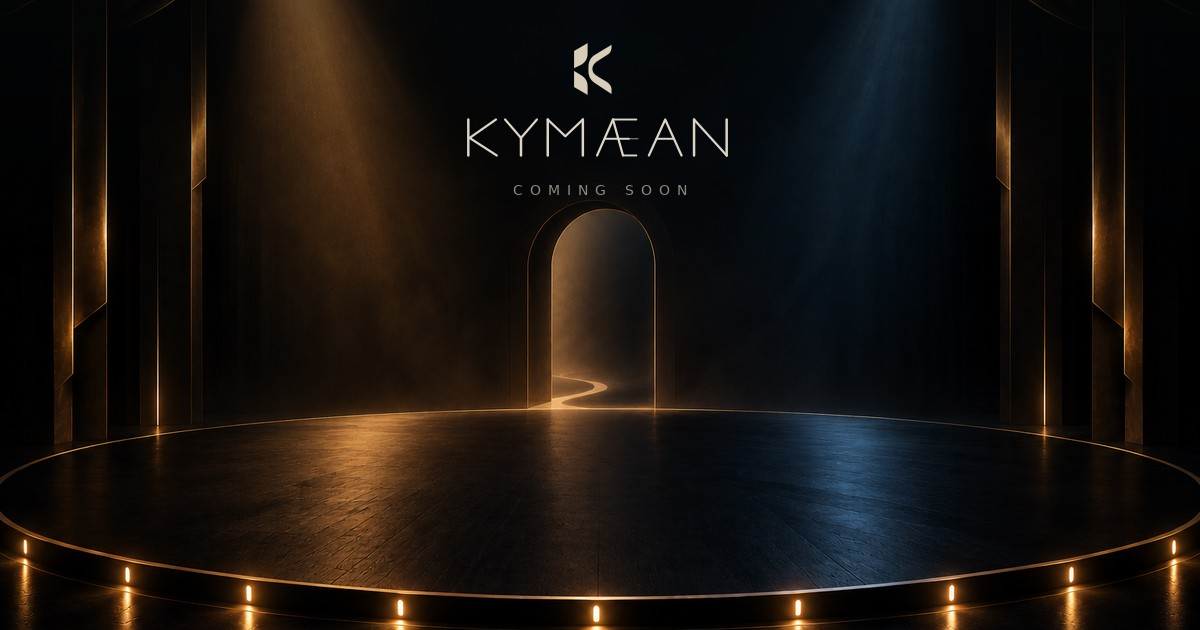
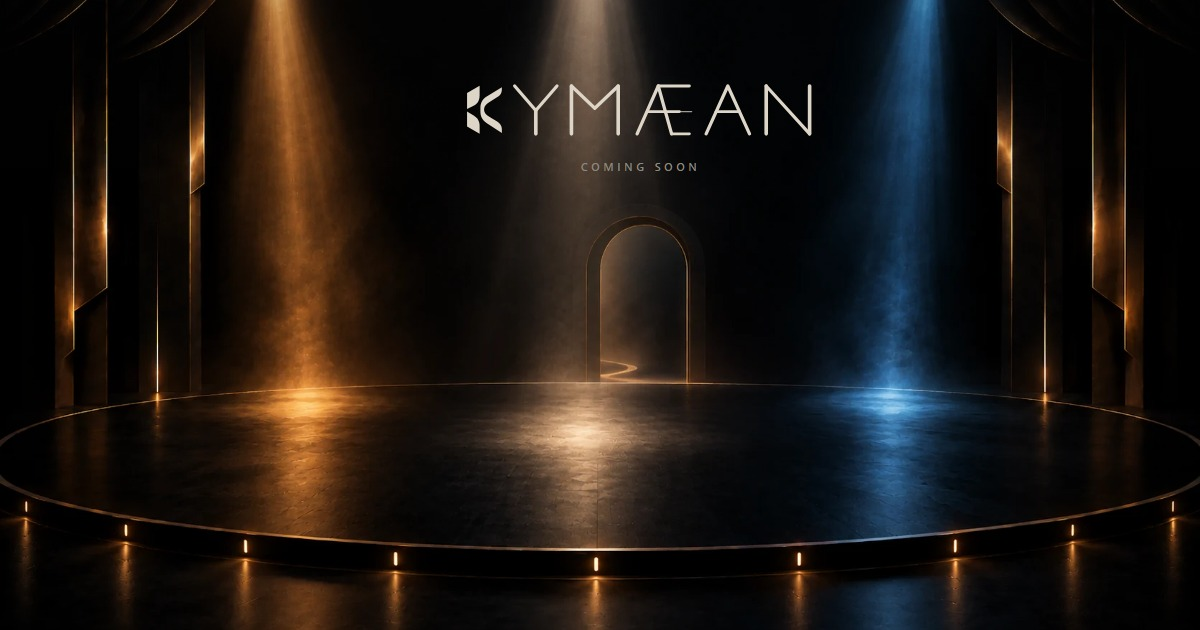
site: align V2.2 social card with approved composition

diff --git a/site/public/index.html b/site/public/index.html
@@ -13,7 +13,7 @@
   <meta property="og:title" content="Kymaean">
   <meta property="og:description" content="Coming Soon.">
   <meta property="og:url" content="https://www.kymaean.com/">
-  <meta property="og:image" content="https://www.kymaean.com/social-card.jpg?v=2">
+  <meta property="og:image" content="https://www.kymaean.com/social-card.jpg?v=3">
   <meta property="og:image:type" content="image/jpeg">
   <meta property="og:image:width" content="1200">
   <meta property="og:image:height" content="630">
@@ -21,7 +21,7 @@
   <meta name="twitter:card" content="summary_large_image">
   <meta name="twitter:title" content="Kymaean">
   <meta name="twitter:description" content="Coming Soon.">
-  <meta name="twitter:image" content="https://www.kymaean.com/social-card.jpg?v=2">
+  <meta name="twitter:image" content="https://www.kymaean.com/social-card.jpg?v=3">
   <meta name="twitter:image:alt" content="Kymaean — Coming Soon.">
 
   <title>Kymaean — Coming Soon.</title>

diff --git a/CURRENT_STATE.md b/CURRENT_STATE.md
@@ -8,15 +8,15 @@ Updated: 2026-09-15
 Design/website authority: `Rylascoo/Ensemble-Website`; engineering/product truth: `Rylascoo/Ensemble-Project/CURRENT_STATE.md`. Bootstrap: `AGENTS.md`; workflow: `docs/KYMAEAN_VISUAL_DESIGN_WORKFLOW_AUTHORITY_01.md`; durable role: `docs/DESIGN_CONTINUITY.md`; ledger: `docs/evidence/DESIGN_LEDGER.md`.
 
 ## Repository / production
-Production remains `main@4bb91292171e0d503d3a4e058ee421436221a793`; `www.kymaean.com` remains source-exact analytics-free V2.1. Website Sol's non-production lane remains draft PR #68, `site/placeholder-v2-2-precision-2026-09-14`; concurrent `design/*` work remains Design Sol-owned and untouched.
+Production remains `main@4bb91292171e0d503d3a4e058ee421436221a793`; `www.kymaean.com` remains source-exact analytics-free V2.1. Website Sol's active publication lane is draft PR #68, `site/placeholder-v2-2-precision-2026-09-14`; concurrent `design/*` work remains Design Sol-owned and untouched.
 
 ## Frozen cross-lane boundary
 `PKT-STAGE-CORE-02` and `APP-SYN-01` remain untouched. Website V2.2 interprets high-level Stage/presence intuition only; it creates no app UI, cast-size, state, palette, color-semantic, interaction, or final-brand authority.
 
-## Website Placeholder V2.2 hosted composition
-The accepted comparison preserves `Kymaean_Website_Sol_V2_2_Stage_View_Synthesis_Freeze_Candidate_2026-09-15.png` unchanged and keeps exact Threshold K as the visible `K` in `KYMÆAN`. Responsive payload commit `85f40392225349442ac992aac4b4cfe9cc00eb8a` aligns the full lockup to the threshold axis: 53.4% in wide layouts and 54.9% in portrait layouts. Desktop identity scale is modestly stronger; portrait uses a quieter 58vw wordmark and 160vw Stage crop so amber, neutral, and blue presence territories remain legible through portrait tablets and phones.
+## V2.2 Director production approval
+The Director explicitly approved the unified responsive V2.2 composition after exact hosted verification. The approved page payload remains `85f40392225349442ac992aac4b4cfe9cc00eb8a`: frozen three-presence Stage, exact Threshold K integrated as `K` in `KYMÆAN`, O3-derived `YMÆAN`, `Coming Soon`, doorway-axis alignment, and unified wide/portrait behavior.
 
-## Hosted verification / next boundary
-The PR #68 branch preview serves all nine public assets byte-for-byte equal to payload commit `85f40392225349442ac992aac4b4cfe9cc00eb8a`; response policy remains `public, max-age=0, must-revalidate, no-transform`, `X-Robots-Tag: noindex`, with no analytics beacon. Hosted Edge/CDP passes 1440x900, 1024x768, 768x1024, 430x932, 390x844, and 320x640 with zero horizontal overflow and intrinsic Stage art 1672x941. 320x640 also passes 200% root text, reduced motion with zero running animations, and actual forced-colors with scene hidden and identity preserved. Exact-head workflows `Repository publication boundaries` #802 and `Document status structure` #584 pass.
+## Pre-merge recursive repair
[1 lines of base64/hex data omitted]
 
-**Exact next action:** present the exact hosted responsive composition for Director visual judgment. Keep production V2.1 and the existing social card unchanged until that review resolves.
+**Exact next action:** commit/push this repair with continuity, require exact-head repository workflows plus Cloudflare byte/visual verification of the repaired social card and unchanged responsive page, then merge PR #68 with an exact-head guard. After merge, verify production bytes/browser/accessibility/no-analytics invariants and close the serial branch under archive-tag/strict-ancestor/zero-unique law.

diff --git a/docs/evidence/DESIGN_LEDGER.md b/docs/evidence/DESIGN_LEDGER.md
@@ -2566,3 +2566,19 @@ Exact-head GitHub Actions pass: `Repository publication boundaries` run #802 and
 **Next boundary:** present the exact hosted responsive composition for Director judgment. Keep PR #68 draft, keep `main` and `www.kymaean.com` on V2.1, and keep the social card unchanged until that review resolves.
 
 **APPROVED BY STANDING DIRECTOR DELEGATION — CLEAN HOSTED RESPONSIVE AUDIT.**
+
+## L-166 - Director approves V2.2 production promotion; stale social card is corrected before merge
+
+**State:** DIRECTOR PRODUCTION APPROVAL / PRE-MERGE CONSISTENCY REPAIR / HOSTED REVALIDATION REQUIRED / PRODUCTION V2.1 UNCHANGED
+
+The Director explicitly approved the exact unified responsive V2.2 website after the hosted L-165 review. That approval covers the three-presence Stage, integrated Threshold-K-as-K wordmark, `Coming Soon`, doorway-axis alignment and unified wide/portrait composition. Production promotion is therefore authorized once the exact approved system passes the guarded publication sequence.
+
+The pre-merge recursive audit found one real publication defect before promotion: PR #68 still contained the earlier V2.2 `site/public/social-card.jpg`, showing the two-presence Stage and a redundant standalone Threshold K above a separate KYMÆAN wordmark. Merging that asset would publish identity/background evidence already superseded by the Director-approved page.
+
[1 lines of base64/hex data omitted]
+
+This is a secondary-public-surface consistency repair, not a reopening of the Stage, identity, responsive system, app/UI authority, palette, product disclosure or final-brand selection. Production remains V2.1 until the repaired exact head passes repository checks and Cloudflare byte/visual verification.
+
+**Next boundary:** commit/push the exact repair + continuity, require exact-head repository workflows and hosted verification, then merge PR #68 with an exact-head guard; after merge, verify `www.kymaean.com` source bytes, no-analytics headers, responsive/accessibility invariants and close the serial branch lifecycle.
+
+**APPROVED — DIRECTOR V2.2 PRODUCTION DECISION + CLEAN PRE-MERGE DEFECT ISOLATION.**
